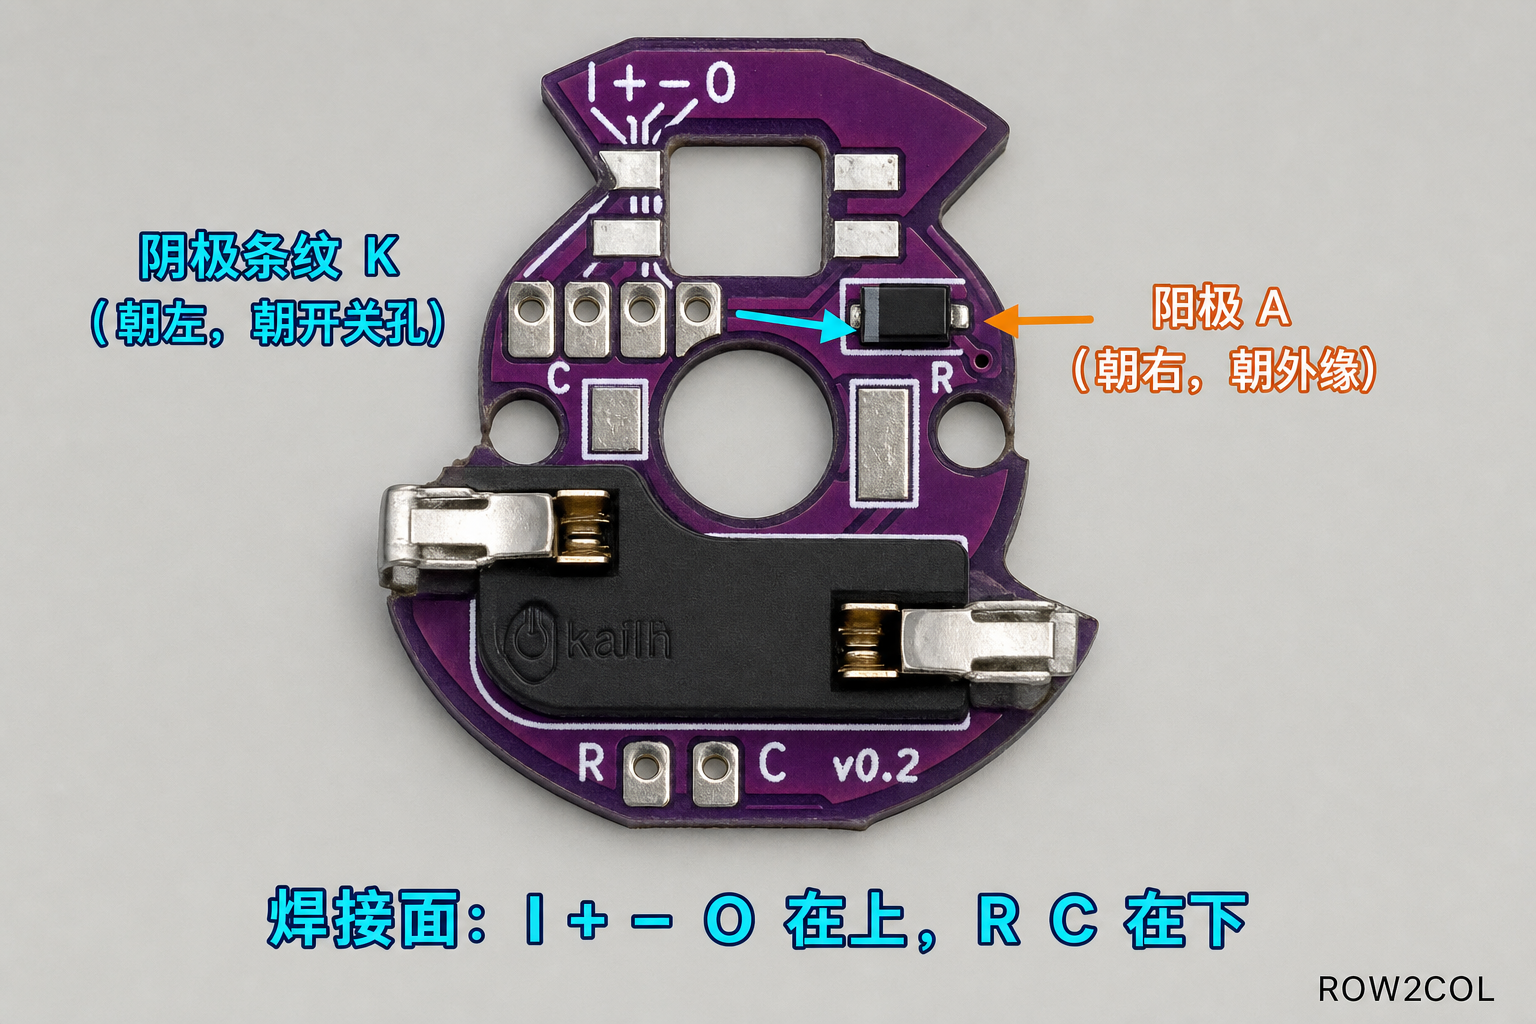
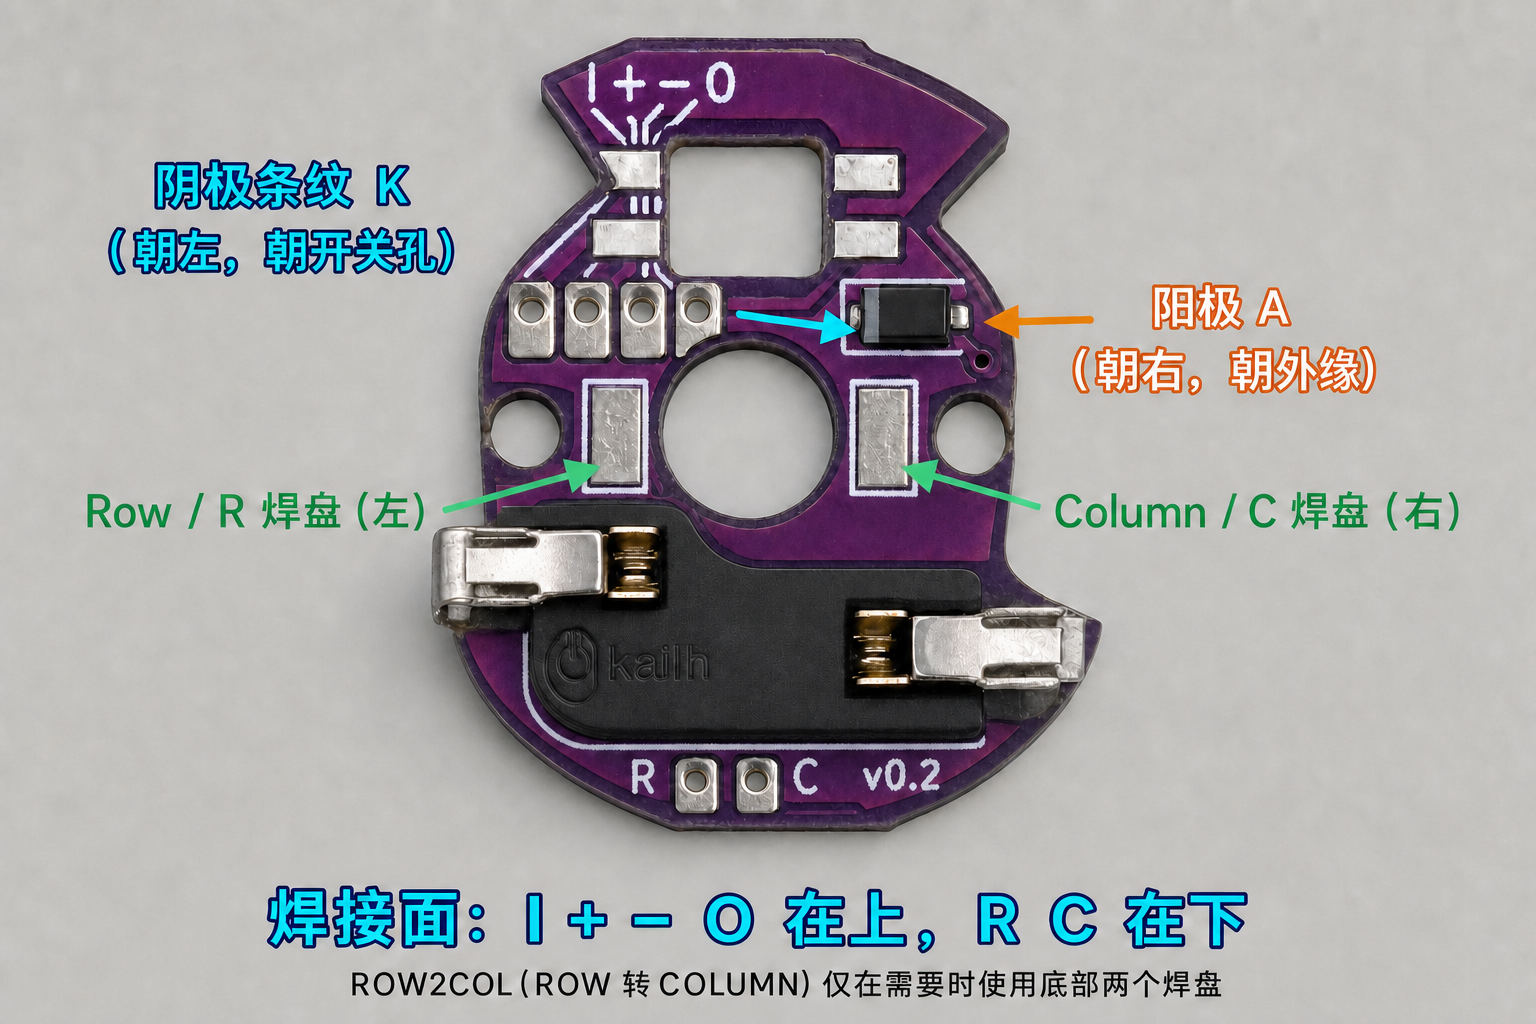
Fix Plum Twist row and column callouts

diff --git a/docs/WIRING.md b/docs/WIRING.md
@@ -28,6 +28,10 @@ Plum Twist 预留了贴片二极管焊盘，但二极管需要自行焊接。其
 右侧：**二极管有色条纹端 K 朝左、朝中央开关孔；无条纹端 A 朝右、朝 PCB 外缘**。
 如果翻到 PCB 平整的另一面观察，左右会镜像。
 
+同一焊接面视角下，中央开关孔左边的长方形焊盘是 **Row / R**，右边的长方形焊盘
+是 **Column / C**；底部两个备用焊盘也同样是左 R、右 C。不要把两侧圆形开关脚孔
+当作行列接线焊盘。
+
 不要把固件改回 `COL2ROW`。把标为 `R` 的焊盘接到行线，把标为 `C` 的焊盘接到
 列线。RGB 的 `+ / - / I / O` 焊盘本次全部留空。
 